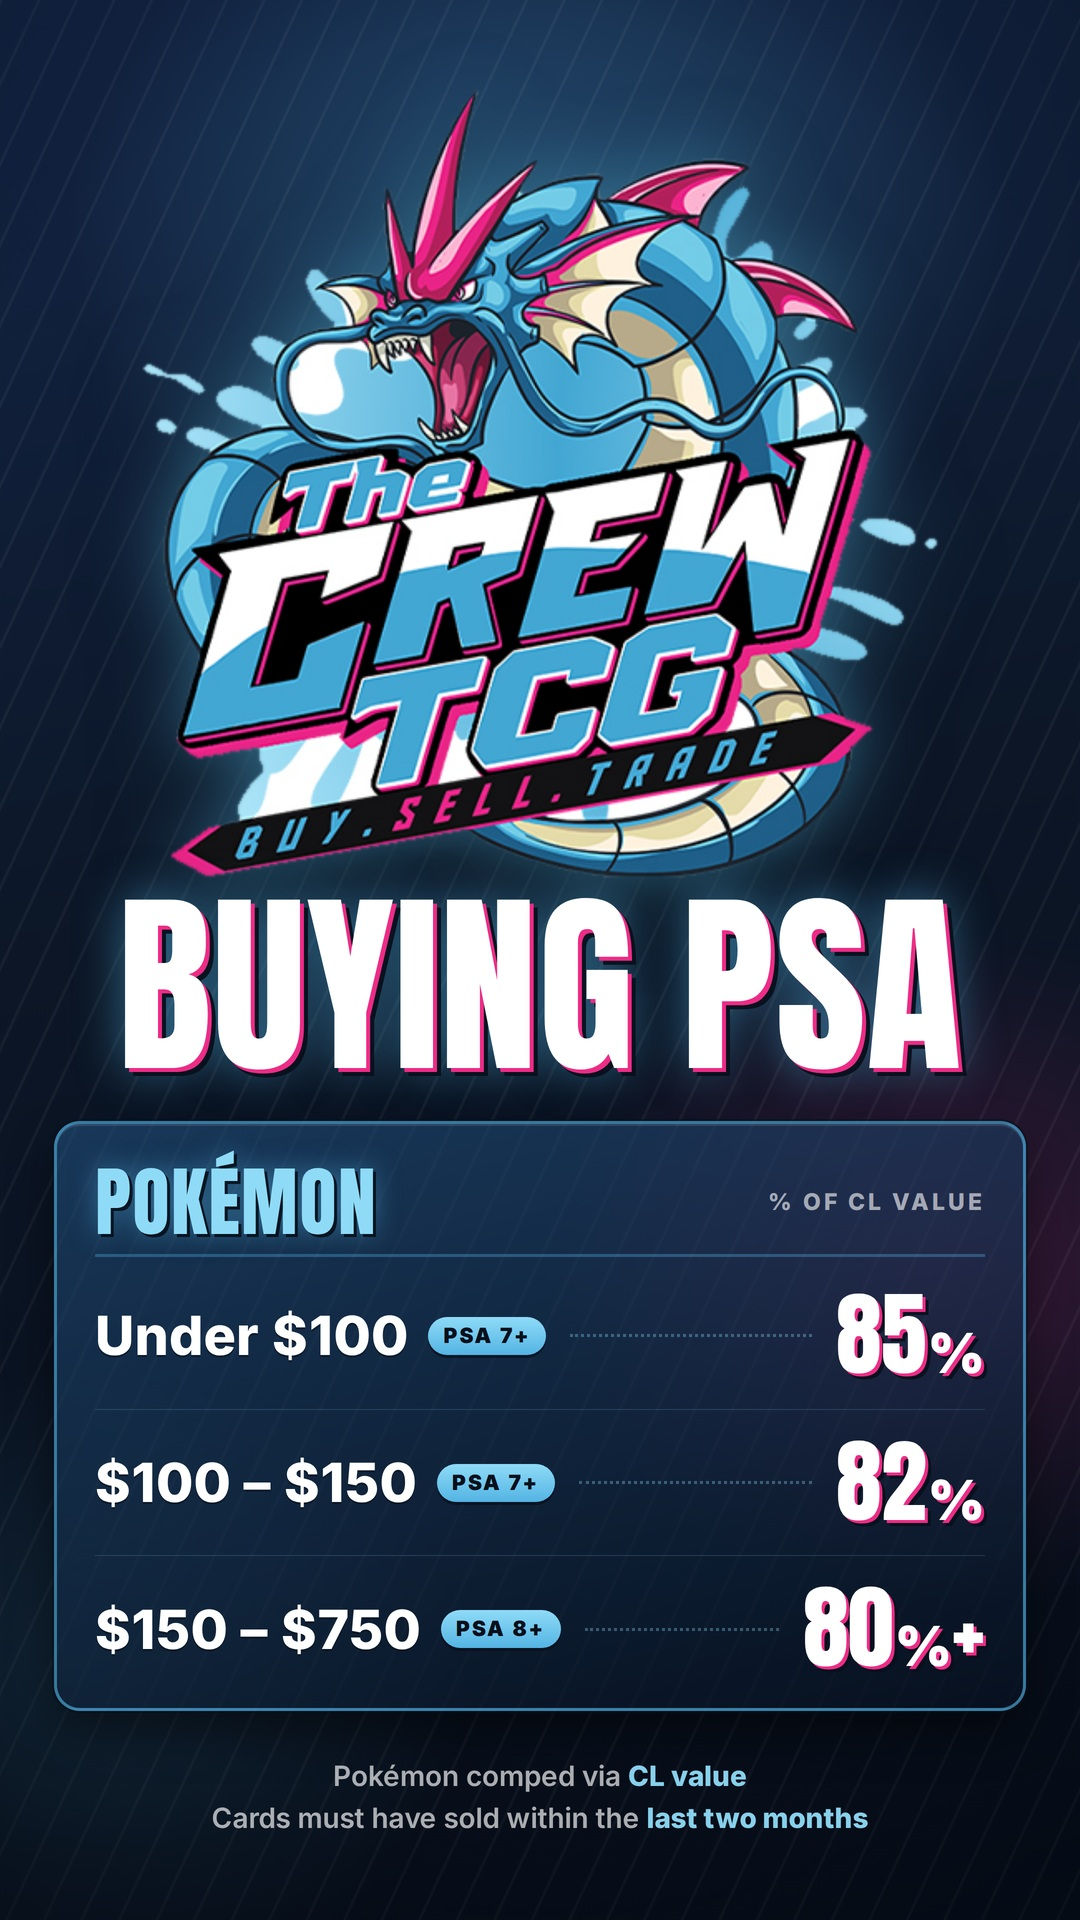
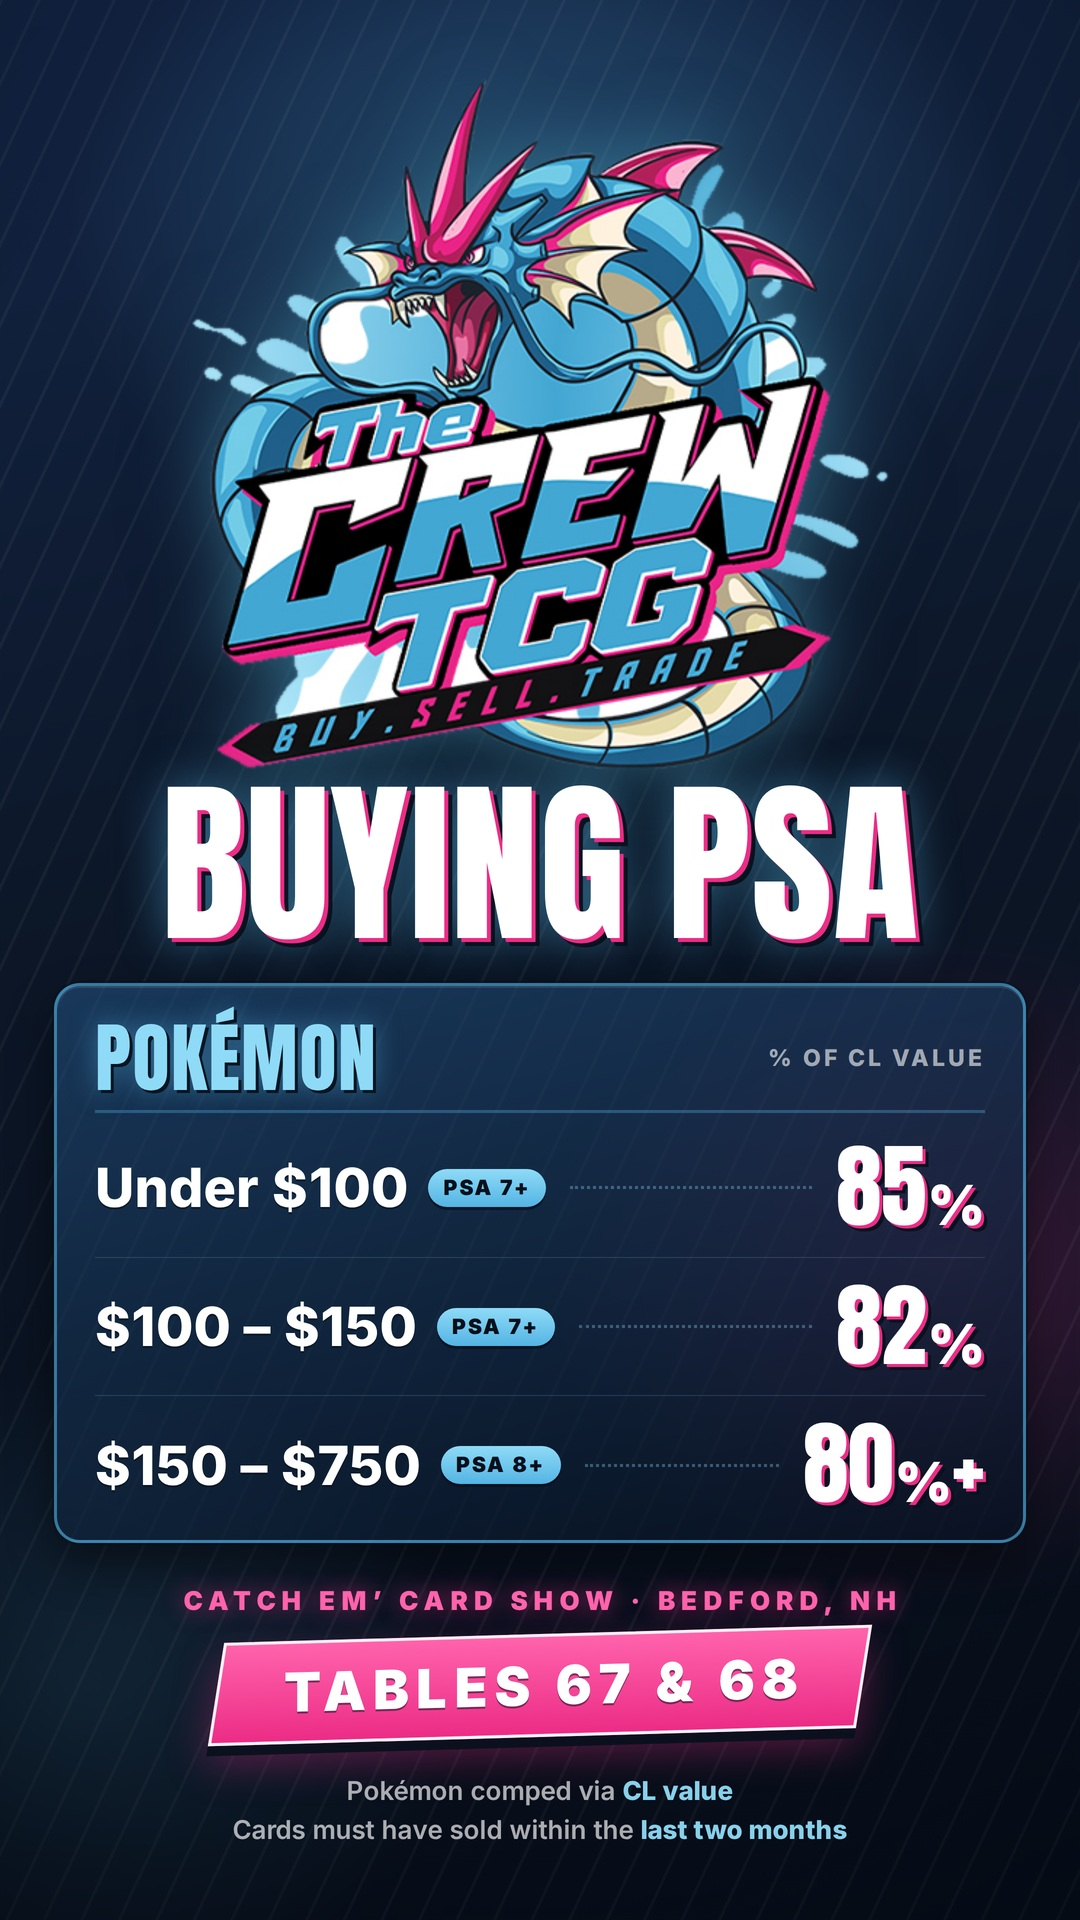
Add table location callout to buying rates ad
Adds a "Tables 67 & 68" banner with show/venue context so attendees
know where to find the booth:

- "Catch Em' Card Show - Bedford, NH" eyebrow above a skewed pink
  banner reading "Tables 67 & 68", reusing the banner treatment that
  echoes the logo's BUY.SELL.TRADE lockup
- Placed between the rate card and the fine print so the ad ends on
  rates, then location, then disclaimers
- Tightens logo, headline and row spacing to free the ~190px the
  callout needs while keeping everything inside the safe area

Claude-Session: https://claude.ai/code/session_01GrrccXG3rbm8dyPJ87oBq8

diff --git a/ads/crew-tcg-psa-buying-rates.html b/ads/crew-tcg-psa-buying-rates.html
@@ -44,46 +44,46 @@
 
 /* ---------- logo ---------- */
 .logo{
-  width:800px;display:block;
+  width:700px;display:block;
   filter:drop-shadow(0 0 34px rgba(84,180,228,.55)) drop-shadow(0 14px 26px rgba(0,0,0,.55));
 }
 
 /* ---------- headline ---------- */
 .kicker{
-  margin-top:14px;
-  font-weight:900;font-size:34px;letter-spacing:.30em;text-indent:.30em;
+  margin-top:42px;
+  font-weight:900;font-size:26px;letter-spacing:.24em;text-indent:.24em;
   color:var(--pink-lt);text-transform:uppercase;
   text-shadow:0 0 22px rgba(236,44,134,.65);
 }
 .headline{
-  font-family:'Anton',sans-serif;font-size:196px;line-height:.86;letter-spacing:.005em;
-  text-transform:uppercase;color:#fff;margin-top:22px;
+  font-family:'Anton',sans-serif;font-size:176px;line-height:.86;letter-spacing:.005em;
+  text-transform:uppercase;color:#fff;margin-top:18px;
   text-shadow:
      4px 4px 0 var(--pink),
      8px 8px 0 rgba(8,16,28,.95),
      0 0 46px rgba(84,180,228,.55);
 }
 .banner{
-  margin-top:20px;transform:skewY(-1.6deg) skewX(-9deg);
+  margin-top:18px;transform:skewY(-1.6deg) skewX(-9deg);
   background:linear-gradient(180deg,var(--pink-lt),var(--pink));
   border:3px solid rgba(255,255,255,.92);
   box-shadow:0 10px 0 rgba(8,16,28,.92), 0 18px 40px rgba(236,44,134,.34);
-  padding:15px 54px;
+  padding:16px 56px;
 }
 .banner span{
   display:block;transform:skewX(9deg);
-  font-weight:900;font-size:39px;letter-spacing:.17em;text-indent:.17em;
+  font-weight:900;font-size:54px;letter-spacing:.13em;text-indent:.17em;
   text-transform:uppercase;color:#fff;text-shadow:0 2px 0 rgba(8,16,28,.5);
 }
 
 /* ---------- rate cards ---------- */
-.cards{width:100%;margin-top:52px;display:flex;flex-direction:column;gap:18px}
+.cards{width:100%;margin-top:44px;display:flex;flex-direction:column;gap:18px}
 .card{
   background:linear-gradient(165deg,rgba(36,84,132,.56),rgba(8,18,34,.72));
   border:3px solid rgba(84,180,228,.62);
   border-radius:26px;
   box-shadow:0 0 0 2px rgba(8,16,28,.55), 0 22px 46px rgba(0,0,0,.46), inset 0 2px 0 rgba(255,255,255,.10);
-  padding:40px 38px 34px;
+  padding:34px 38px 30px;
 }
 .card-head{
   display:flex;align-items:center;justify-content:space-between;
@@ -100,7 +100,7 @@
   color:rgba(255,255,255,.62);
 }
 
-.row{display:flex;align-items:center;gap:20px;padding:30px 0;border-bottom:1px solid rgba(143,219,247,.16)}
+.row{display:flex;align-items:center;gap:20px;padding:26px 0;border-bottom:1px solid rgba(143,219,247,.16)}
 .row:last-child{border-bottom:0;padding-bottom:2px}
 .row-label{
   font-weight:800;font-size:54px;letter-spacing:.01em;color:#fff;white-space:nowrap;
@@ -125,8 +125,8 @@
 
 /* ---------- footer ---------- */
 .fine{
-  margin-top:44px;width:100%;text-align:center;
-  font-weight:600;font-size:28px;line-height:1.5;color:rgba(255,255,255,.66);
+  margin-top:34px;width:100%;text-align:center;
+  font-weight:600;font-size:26px;line-height:1.5;color:rgba(255,255,255,.66);
 }
 .fine b{color:rgba(143,219,247,.95);font-weight:800}
 
@@ -164,6 +164,9 @@
       <div class="row"><div class="row-label">$150 &ndash; $750</div><div class="chip">PSA 8+</div><div class="dots"></div><div class="pct">80<i>%</i>+</div></div>
     </div>
   </div>
+
+  <div class="kicker">Catch Em&#8217; Card Show &middot; Bedford, NH</div>
+  <div class="banner"><span>Tables 67 &amp; 68</span></div>
 
   <div class="fine">
     Pok&eacute;mon comped via <b>CL value</b><br>
